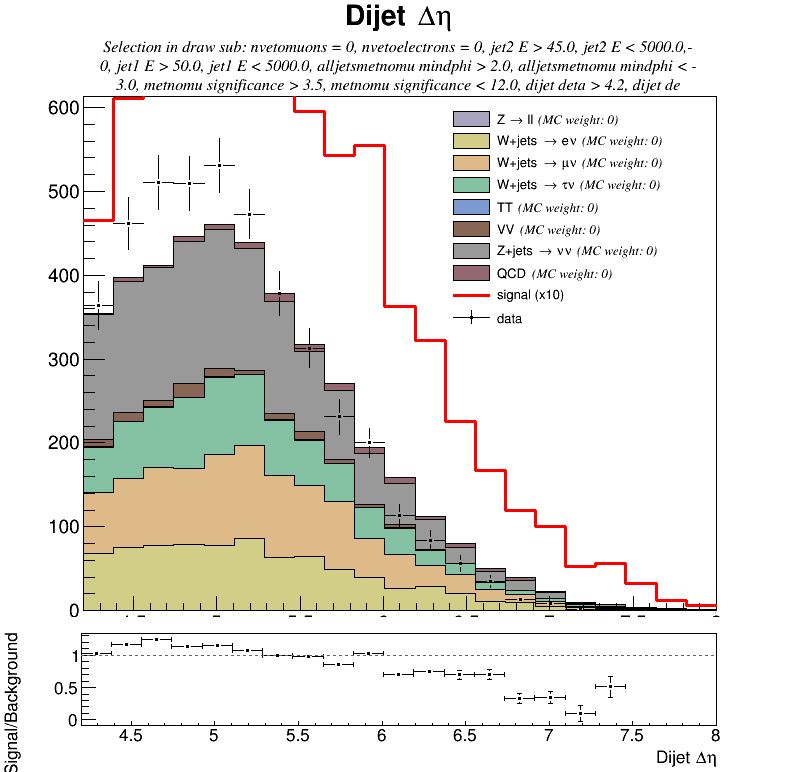
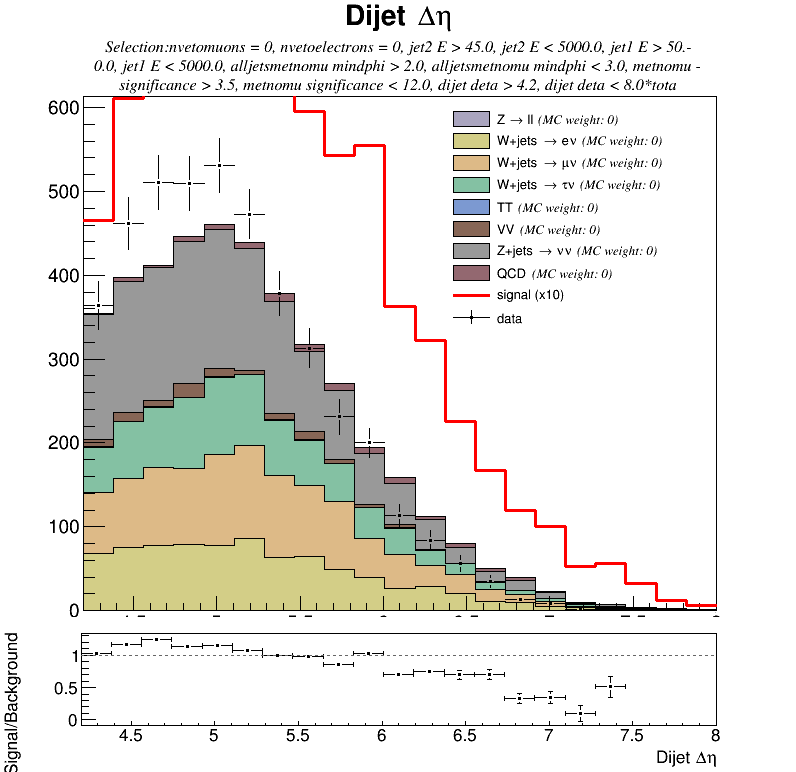
error function for each background created and tested

Changed region(s): [[0.1206, 0.0311, 0.8744, 0.1244]]

diff --git a/src/histo_plot.cpp b/src/histo_plot.cpp
@@ -120,9 +120,17 @@ std::string HistoPlot::add_mc_to_selection(DataChain* bg_chain, Variable* variab
 double HistoPlot::single_bg_error(DataChain* data, std::vector<DataChain*> bg_chains, DataChain* bg_chain,
                                  Variable* var, bool with_cut, std::vector<Variable*>* variables)
 {
-  
-  weight = bg_chain->mc_weights[variable->name];
-  weight_error = MCWeights::calc_weight_error(data, bg_chains, bg_chain, var, with_cut, variables);
+  double MC_N_S = get_histo_integral(build_1d_histo(bg_chain, var, with_cut, false, "goff", variables), with_cut, var); 
+ std::cout<<"MC_N_S: "<< MC_N_S <<"\n";
+  double sigma_N = std::pow(MC_N_S, 0.5);
+  double weight = MCWeights::calc_mc_weight(data, bg_chains, bg_chain, var, with_cut, variables);
+//std::cout<<"weight: "<<weight<<"\n";
+  double sigma_w = MCWeights::calc_weight_error(data, bg_chains, bg_chain, var, with_cut, variables);
+std::cout<<"sigma W = "<<sigma_w<<"\n";
+  double sigma_total_sq = std::pow(sigma_w*MC_N_S,2)+std::pow(sigma_N*weight,2);
+  double sigma_total = std::pow(sigma_total_sq,0.5);
+
+  return sigma_total;
 }
 
 std::string HistoPlot::get_string_from_double(double num)
@@ -229,7 +237,6 @@ THStack HistoPlot::draw_stacked_histo(TLegend* legend, Variable* var, std::vecto
     legend_str += (" #font[12]{(MC weight: " + get_string_from_double(bg_chains[i]->mc_weights[var->name]) + ")}");
     legend->AddEntry(single_bg_histo, legend_str.c_str(), "f");
   }
-
   return stack;
 }
 

diff --git a/src/mc_weights.cpp b/src/mc_weights.cpp
@@ -45,16 +45,24 @@ double MCWeights::calc_weight_error(DataChain* data, std::vector<DataChain*> bg_
 {
   std::string selection   = get_mc_selection_str(bg_chain, var, variables);
   double data_N_C     = get_nevents(data, var, with_cut, variables, selection);
+std::cout<<"data control: "<<data_N_C<<"\n";
   double MC_N_C  = get_nevents(bg_chain, var, with_cut, variables, selection);
-  double bg_N_C = get_all_bg_in_ctrl(bg_chains, var, with_cut, variables, selection) - ctrl_mc_in_ctrl;
+std::cout<<"MC control: "<<MC_N_C<<"\n";
+  double bg_N_C = get_all_bg_in_ctrl(bg_chains, var, with_cut, variables, selection) - MC_N_C;
+std::cout<<"bg control: "<<bg_N_C<<"\n";
 
   double sigma_data_N_C = std::pow(data_N_C, 0.5);
   double sigma_MC_N_C = std::pow(MC_N_C, 0.5);
   double sigma_bg_N_C = std::pow(bg_N_C, 0.5);
+double weight = calc_mc_weight(data, bg_chains, bg_chain, var, with_cut, variables);
 
-  double error_sq = std::pow(sigma_data_N_C/MC_N_C,2) + std::pow(sigma_bg_N_C/MC_N_C,2) + std::pow((data_N_C- bg_N_C/2*pow(MC_N_C,2))*sigma_MC_N_C,2);
+  double err1 = sigma_data_N_C/MC_N_C;
+  double err2 = sigma_bg_N_C/MC_N_C;
+  double err3 = (data_N_C- bg_N_C)/(2*pow(MC_N_C,1.5));
+std::cout<<"partial answer: "<<err1<<"\n"<<err2<<"\n"<<err3<<"\n";
+  double error_sq = std::pow(err1,2) + std::pow(err2,2) + std::pow(err3,2);
   double weight_error = std::pow(error_sq, 0.5);
-
+std::cout<<"weight: "<<weight<<"\n";
   return weight_error;
 
 }

diff --git a/src/main.cpp b/src/main.cpp
@@ -27,11 +27,15 @@ void produce_graphs(bool with_cut) {
   //MVAAnalysis::plot_bdt_results(bg_chains[0], signal_chain, super_vars);
   //BDTAnalysis::get_BDT_results(bg_chains[0], signal_chain, &vars, super_vars->get_cuts_str_for_tmva());
 */
-
-  for (int i = 0; i < vars.size(); i++)
+  std::string test = ""; 
+  double MC_N_S = HistoPlot::get_histo_integral(HistoPlot::build_1d_histo(bg_chains[0], vars[0], with_cut, false, "goff", &cut_vars,test), with_cut, vars[0]);
+  double error;  
+  error = HistoPlot::single_bg_error(data_chain, bg_chains, bg_chains[0], vars[0], true, &cut_vars);
+  std::cout<<"variable: "<<vars[0]->name<<", background: "<<bg_chains[0]->legend<<", total events: "<<MC_N_S<<"\n"<<"error = "<<error<<"\n";
+  /*for (int i = 0; i < vars.size(); i++)
   {
      HistoPlot::draw_plot(vars[i], bg_chains, signal_chain, data_chain, true, &cut_vars);
-  }
+  }*/
 }
 
 int main(int argc, char** argv) {
